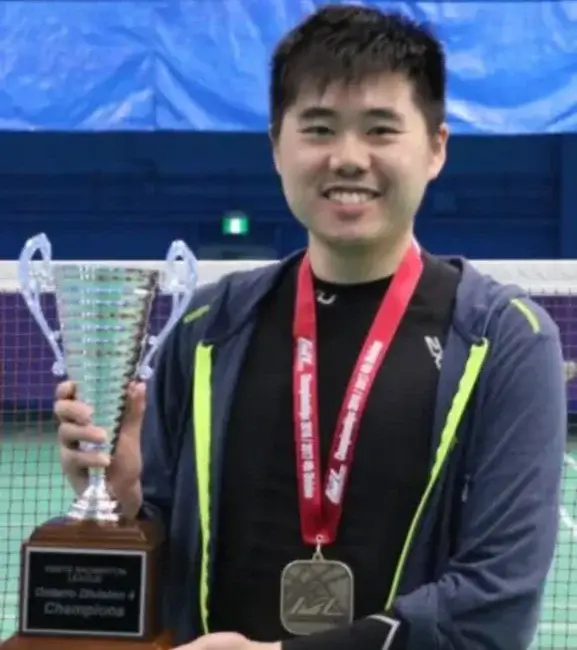
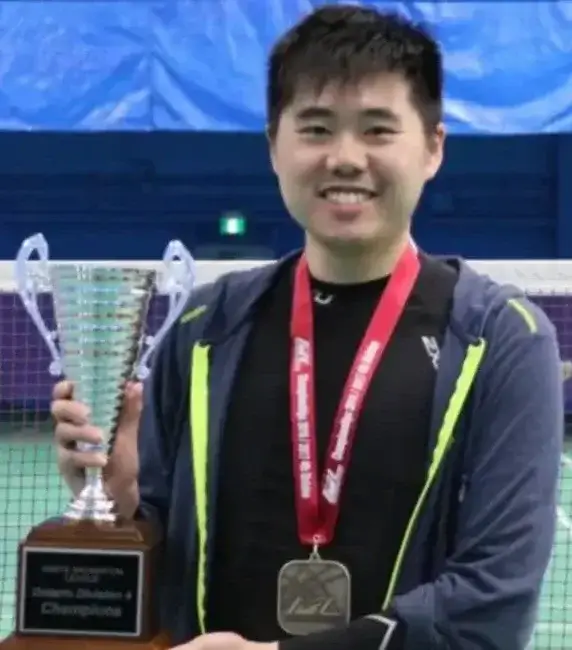
add michael picture

diff --git a/src/components/Organizers.tsx b/src/components/Organizers.tsx
@@ -2,17 +2,17 @@ import andrew1 from "../assets/andrew1.webp";
 import andrew2 from "../assets/andrew2.webp";
 import izzy1 from "../assets/izzy1.webp";
 import izzy2 from "../assets/izzy2.webp";
+import michael1 from "../assets/michael1.webp";
 import tris2 from "../assets/Tris.webp";
 import tris1 from "../assets/Tris1.webp";
 import viet1 from "../assets/viet1.webp";
-import viet2 from "../assets/viet2.webp";
 import viet3 from "../assets/viet3.webp";
 import viet5 from "../assets/viet5.webp";
 import ImageIndividual from "./ImageIndividual";
 
 const namePositionMap1 = {
   "Sara Gautier": ["President", viet1, viet3, ],
-  "Michael Ho": ["Vice President", viet5, viet2],
+  "Michael Ho": ["Vice President", michael1, viet5,],
 
 }
 
